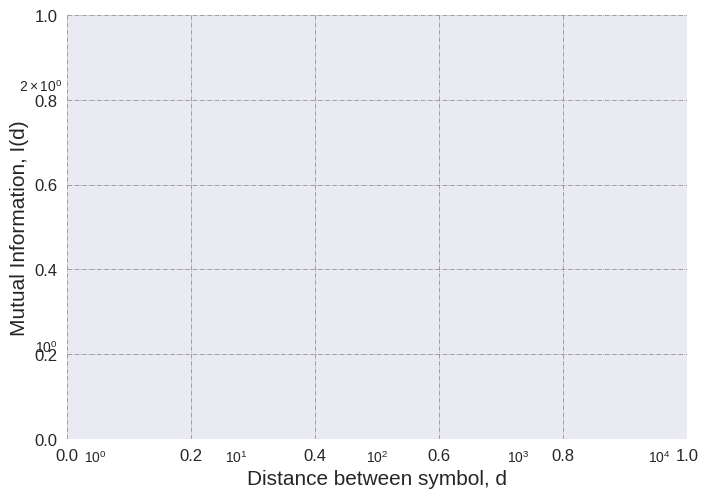
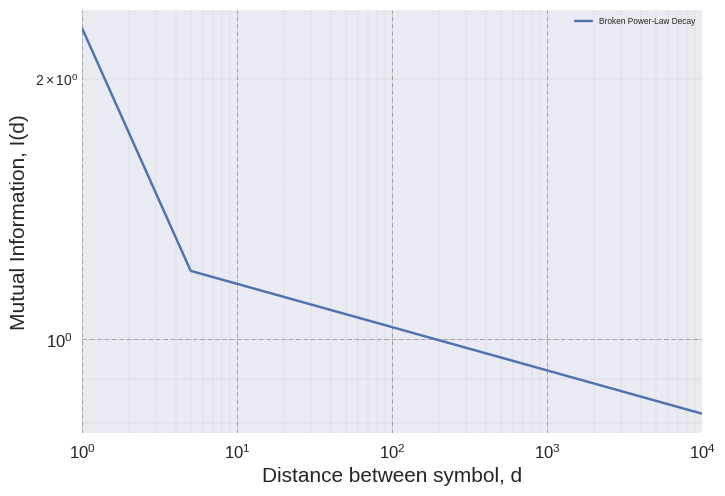
Up

diff --git a/paper_related/framework.py b/paper_related/framework.py
@@ -22,40 +22,40 @@ with plt.style.context(('seaborn')):
 
     ##########################################################################################################################
 
-    a = 2
-    alpha = 0.1
-    y = a*pow(x,-alpha)
-    p2 = plt.loglog(x, y, label="Power-Law Decay")
-    
-    ##########################################################################################################################
-
-    a = 2
-    b = 0.1
-    y = a*pow(b,x)
-    p3 = plt.loglog(x, y, label="Exponential Decay")
-    
-    ##########################################################################################################################
-
-    x = np.linspace(1, 10000, 10000)
-
-    break_point = 5
-    alpha_1 = 0.4
-    alpha_2 = -0.6
-    amplitude = 1.2
-    f = models.BrokenPowerLaw1D(amplitude=amplitude, x_break=break_point, alpha_1=alpha_1, alpha_2=alpha_2)
-    fit_sample = f(x)
-    p4 = plt.loglog(x, fit_sample, label="Broken Power-Law Decay")
+    #a = 2
+    #alpha = 0.1
+    #y = a*pow(x,-alpha)
+    #p2 = plt.loglog(x, y, label="Power-Law Decay")
 
     ##########################################################################################################################
-    # ax = plt.axes()
-    # lgd = ax.legend(loc='upper right', shadow=True, fancybox=True, prop={'size': 6})
-    # plt.tick_params(labelsize='large', width=3)
-    # plt.grid(True)
-    # plt.grid(which='major', linestyle='-.', linewidth='0.5', color='grey')
-    # plt.grid(which='minor', linestyle=':', linewidth='0.2', color='grey')
-    # # ax.set_xlim(1.0, 10000.0)
+
+    #a = 2
+    #b = 0.1
+    #y = a*pow(b,x)
+    #p3 = plt.loglog(x, y, label="Exponential Decay")
+
+    ##########################################################################################################################
+
+    #x = np.linspace(1, 10000, 10000)
+
+    #break_point = 5
+    #alpha_1 = 0.4
+    #alpha_2 = -0.6
+    #amplitude = 1.2
+    #f = models.BrokenPowerLaw1D(amplitude=amplitude, x_break=break_point, alpha_1=alpha_1, alpha_2=alpha_2)
+    #fit_sample = f(x)
+    #p4 = plt.loglog(x, fit_sample, label="Broken Power-Law Decay")
+
+    ##########################################################################################################################
+    ax = plt.axes()
+    lgd = ax.legend(loc='upper right', shadow=True, fancybox=True, prop={'size': 6})
+    plt.tick_params(labelsize='large', width=3)
+    plt.grid(True)
+    plt.grid(which='major', linestyle='-.', linewidth='0.5', color='grey')
+    plt.grid(which='minor', linestyle=':', linewidth='0.2', color='grey')
+    ax.set_xlim(1.0, 10000.0)
     # # ax.set_ylim(0.5665692652625367, 3.5)
-    # ax.set_xlabel('Distance between symbol, d', fontsize=15)
-    # ax.set_ylabel('Mutual Information, I(d)', fontsize=15)
-    # plt.savefig('standard_broken_pl', bbox_extra_artists=(lgd,), bbox_inches='tight')
+    ax.set_xlabel('Distance between symbol, d', fontsize=15)
+    ax.set_ylabel('Mutual Information, I(d)', fontsize=15)
+    plt.savefig('standard_broken_pl', bbox_extra_artists=(lgd,), bbox_inches='tight')
     plt.show()
